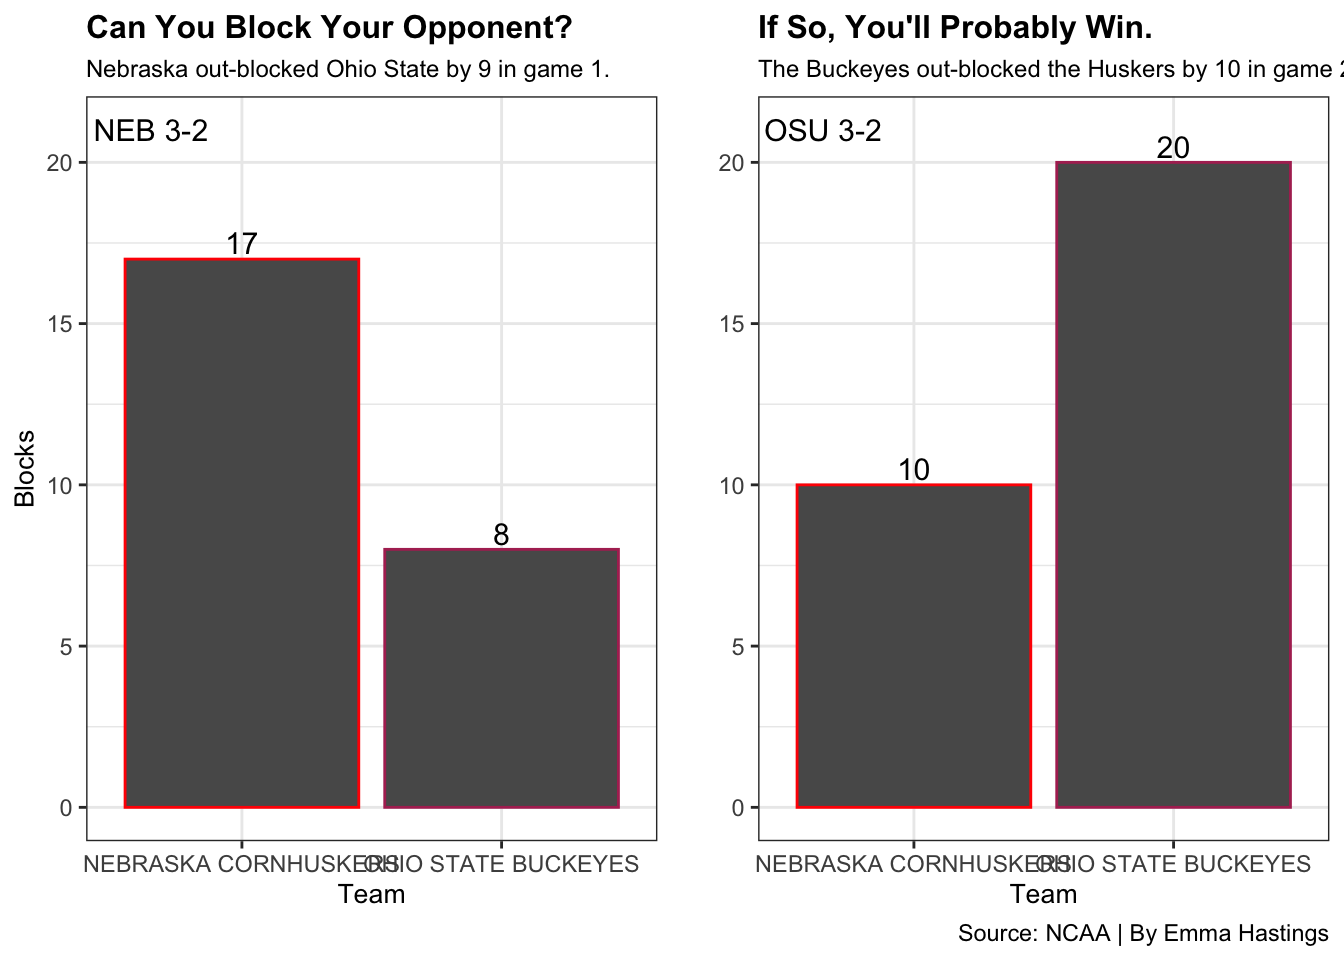
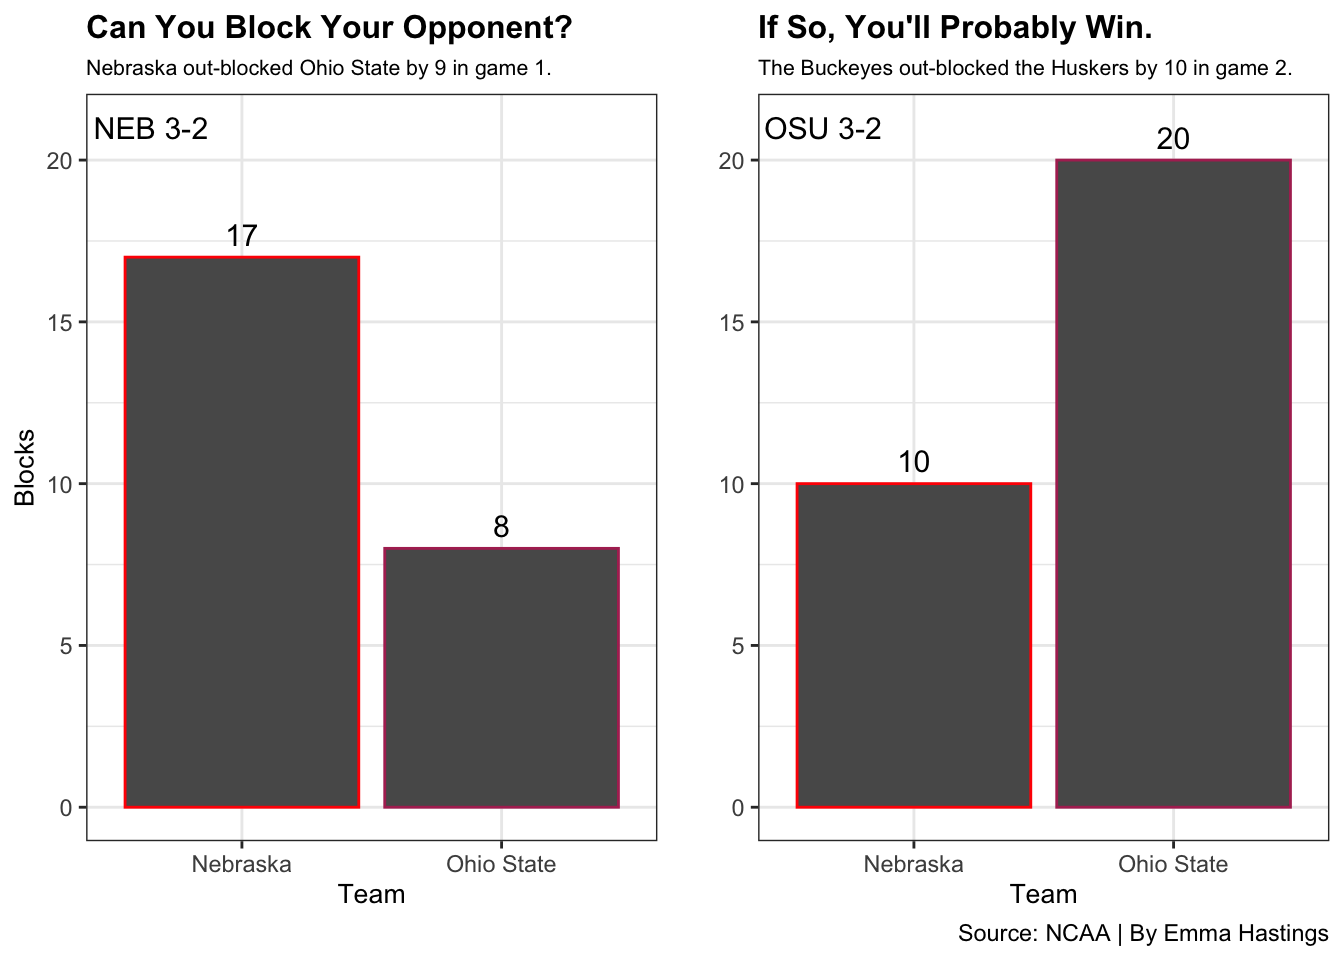
Final commit.

diff --git a/2021/03/26/explaining-the-split-how-nebraska-volleyball-lost-to-a-team-they-beat-24-hours-before/index.html b/2021/03/26/explaining-the-split-how-nebraska-volleyball-lost-to-a-team-they-beat-24-hours-before/index.html
@@ -144,19 +144,19 @@ HPgame2 &lt;- teamgame2 %&gt;%
   geom_point(data=HPgame1, aes(x=4, y=5.7), size=2, color=&quot;maroon&quot;) +
   geom_point(data=HPgame1, aes(x=5, y=41.2), size=4, color=&quot;red&quot;) +
   geom_point(data=HPgame1, aes(x=5, y=19), size=2, color=&quot;maroon&quot;) +
-  annotate(&quot;text&quot;, x=1.35, y=22, label=&quot;NEB, 20.6%&quot;, size=3.5) +
-  annotate(&quot;text&quot;, x=1.35, y=41, label=&quot;OSU, 40.0%&quot;, size=3.5) +
-  annotate(&quot;text&quot;, x=2.23, y=13, label=&quot;12.8%&quot;, size=3.5) +
-  annotate(&quot;text&quot;, x=2.22, y=23.9, label=&quot;22.7%&quot;, size=3.5) +
-  annotate(&quot;text&quot;, x=3.23, y=25.5, label=&quot;25.6%&quot;, size=3.5) +
-  annotate(&quot;text&quot;, x=3.24, y=20.5, label=&quot;20.0%&quot;, size=3.5)  +
-  annotate(&quot;text&quot;, x=4.15, y=33.5, label=&quot;35.3%&quot;, size=3.5) +
-  annotate(&quot;text&quot;, x=4.2, y=5, label=&quot;5.7%&quot;, size=3.5) +
-  annotate(&quot;text&quot;, x=5, y=39, label=&quot;41.2%&quot;, size=3.5) +
-  annotate(&quot;text&quot;, x=5, y=21.5, label=&quot;19.0%&quot;, size=3.5) +
-  annotate(&quot;text&quot;, x=1.1, y=1.5, label= &quot;NEB 3-2&quot;, size=3.5) +
+  annotate(&quot;text&quot;, x=1.18, y=24.5, label=&quot;NEB, 20.6%&quot;, size=2) +
+  annotate(&quot;text&quot;, x=1.18, y=45, label=&quot;OSU, 40.0%&quot;, size=2) +
+  annotate(&quot;text&quot;, x=2.12, y=10, label=&quot;12.8%&quot;, size=2) +
+  annotate(&quot;text&quot;, x=2.12, y=28, label=&quot;22.7%&quot;, size=2) +
+  annotate(&quot;text&quot;, x=3.105, y=32, label=&quot;25.6%&quot;, size=2) +
+  annotate(&quot;text&quot;, x=3.02, y=14.7, label=&quot;20.0%&quot;, size=2)  +
+  annotate(&quot;text&quot;, x=4.15, y=32, label=&quot;35.3%&quot;, size=2) +
+  annotate(&quot;text&quot;, x=4.1, y=3.75, label=&quot;5.7%&quot;, size=2) +
+  annotate(&quot;text&quot;, x=5, y=34.75, label=&quot;41.2%&quot;, size=2) +
+  annotate(&quot;text&quot;, x=5, y=24, label=&quot;19.0%&quot;, size=2) +
+  annotate(&quot;text&quot;, x=1.1, y=3, label= &quot;NEB 3-2&quot;, size=2.5) +
   labs(title=&quot;Hitting percentage predicts the winner of all 10 series sets.&quot;, subtitle = &quot;During the first game, Nebraska won the hitting percentage battle in 3 out of 5 sets.&quot;, x = &quot;Set&quot;, y=&quot;Hitting Percentage (%)&quot;) +
-  scale_y_continuous(limits = c(0, 50)) +
+  scale_y_continuous(limits = c(0, 55)) +
   theme_bw() +
   theme(plot.title = element_text(size = 16, face = &quot;bold&quot;), plot.subtitle = element_text(size = 12), axis.title = element_text(size = 9))</code></pre>
 <p>… and here’s the code for the second.</p>
@@ -173,18 +173,19 @@ HPgame2 &lt;- teamgame2 %&gt;%
   geom_point(data=HPgame2, aes(x=4, y=20), size=4, color=&quot;maroon&quot;) +
   geom_point(data=HPgame2, aes(x=5, y=31.8), size=2, color=&quot;red&quot;) +
   geom_point(data=HPgame2, aes(x=5, y=47.5), size=4, color=&quot;maroon&quot;) +
-  annotate(&quot;text&quot;, x=1.18, y=28.3, label=&quot;NEB, 25.8%&quot;, size=3.5) +
-  annotate(&quot;text&quot;, x=1.35, y=48, label=&quot;OSU, 48.3%&quot;, size=3.5) +
-  annotate(&quot;text&quot;, x=1.95, y=22.9, label=&quot;18.9%&quot;, size=3.5) +
-  annotate(&quot;text&quot;, x=2.23, y=10, label=&quot;10.0%&quot;, size=3.5) +
-  annotate(&quot;text&quot;, x=3.2, y=41.5, label=&quot;39.5%&quot;, size=3.5) +
-  annotate(&quot;text&quot;, x=3.09, y=26, label=&quot;29.4%&quot;, size=3.5)  +
-  annotate(&quot;text&quot;, x=4.225, y=8.5, label=&quot;8.3%&quot;, size=3.5) +
-  annotate(&quot;text&quot;, x=3.95, y=24.1, label=&quot;20.0%&quot;, size=3.5) +
-  annotate(&quot;text&quot;, x=5.1, y=28.5, label=&quot;31.8%&quot;, size=3.5) +
-  annotate(&quot;text&quot;, x=5.1, y=45, label=&quot;47.6%&quot;, size=3.5) +
-  annotate(&quot;text&quot;, x=1.1, y=1.5, label= &quot;OSU 3-2&quot;, size=3.5) +
+  annotate(&quot;text&quot;, x=1.2, y=28.3, label=&quot;NEB, 25.8%&quot;, size=2) +
+  annotate(&quot;text&quot;, x=1.255, y=49, label=&quot;OSU, 48.3%&quot;, size=2) +
+  annotate(&quot;text&quot;, x=1.95, y=25, label=&quot;18.9%&quot;, size=2) +
+  annotate(&quot;text&quot;, x=2.12, y=7, label=&quot;10.0%&quot;, size=2) +
+  annotate(&quot;text&quot;, x=3.13, y=44, label=&quot;39.5%&quot;, size=2) +
+  annotate(&quot;text&quot;, x=3.09, y=24.3, label=&quot;29.4%&quot;, size=2)  +
+  annotate(&quot;text&quot;, x=4.12, y=6, label=&quot;8.3%&quot;, size=2) +
+  annotate(&quot;text&quot;, x=3.95, y=26, label=&quot;20.0%&quot;, size=2) +
+  annotate(&quot;text&quot;, x=5, y=27, label=&quot;31.8%&quot;, size=2) +
+  annotate(&quot;text&quot;, x=5, y=41, label=&quot;47.6%&quot;, size=2) +
+  annotate(&quot;text&quot;, x=1.1, y=3, label= &quot;OSU 3-2&quot;, size=2) +
   labs(subtitle=&quot;The same thing happens in Game 2, except it&#39;s the Buckeyes&#39; turn.&quot;, x=&quot;Set&quot;, y=&quot;Hitting Percentage (%)&quot;, caption=&quot;Source: NCAA | By Emma Hastings&quot;) +
+  scale_y_continuous(limits = c(0, 55)) +
   theme_bw() +
   theme(plot.title = element_text(size = 16, face = &quot;bold&quot;), plot.subtitle = element_text(size = 12), axis.title = element_text(size = 9))</code></pre>
 <p>Finally, I’m going to use “plot_grid()” to put the line charts together. This way, we’ll be able to compare Game 1’s hitting percentages with Game 2’s.</p>
@@ -278,16 +279,16 @@ teamblockg2 &lt;- indivblockg2 %&gt;%
   summarise(TOTALBLOCKS = sum(BLOCKS))</code></pre>
 <p>Next, I’m going to separate each game out into Nebraska and Ohio State so I can compare their blocking totals later.</p>
 <pre class="r"><code>nublocks1 &lt;- teamblockg1 %&gt;% 
-  filter(TEAM == &quot;NEBRASKA CORNHUSKERS&quot;)
+  filter(TEAM == &quot;Nebraska&quot;)
 
 nublocks2 &lt;- teamblockg2 %&gt;% 
-  filter(TEAM == &quot;NEBRASKA CORNHUSKERS&quot;)
+  filter(TEAM == &quot;Nebraska&quot;)
 
 osublocks1 &lt;- teamblockg1 %&gt;% 
-  filter(TEAM == &quot;OHIO STATE BUCKEYES&quot;)
+  filter(TEAM == &quot;Ohio State&quot;)
 
 osublocks2 &lt;- teamblockg2 %&gt;% 
-  filter(TEAM == &quot;OHIO STATE BUCKEYES&quot;)</code></pre>
+  filter(TEAM == &quot;Ohio State&quot;)</code></pre>
 <p>Then, I’m going to create two separate bar charts displaying each team’s blocking totals for each game.</p>
 <p>Here’s the code for the first bar chart…</p>
 <pre class="r"><code>blockg1 &lt;- ggplot() + 
@@ -297,10 +298,10 @@ osublocks2 &lt;- teamblockg2 %&gt;%
   theme_bw() + 
   labs(title = &quot;Can You Block Your Opponent?&quot;, subtitle = &quot;Nebraska out-blocked Ohio State by 9 in game 1.&quot;, y=&quot;Blocks&quot;, x=&quot;Team&quot;, caption = &quot;&quot;) +
   scale_y_continuous(limits = c(0, 21)) +
-  annotate(&quot;text&quot;, x=1, y=17.5, label=&quot;17&quot;, size=4) +
-  annotate(&quot;text&quot;, x=2, y=8.5, label=&quot;8&quot;, size=4) +
+  annotate(&quot;text&quot;, x=1, y=17.7, label=&quot;17&quot;, size=4) +
+  annotate(&quot;text&quot;, x=2, y=8.7, label=&quot;8&quot;, size=4) +
   annotate(&quot;text&quot;, x=0.65, y=21, label=&quot;NEB 3-2&quot;, size=4) +
-  theme(plot.title = element_text(size = 12, face = &quot;bold&quot;), plot.subtitle = element_text(size = 9), axis.title = element_text(size=10))</code></pre>
+  theme(plot.title = element_text(size = 12, face = &quot;bold&quot;), plot.subtitle = element_text(size = 8), axis.title = element_text(size=10))</code></pre>
 <p>… and here’s the code for the second.</p>
 <pre class="r"><code>blockg2 &lt;- ggplot() + 
   geom_bar(data=teamblockg2, aes(x=TEAM, weight=`TOTALBLOCKS`)) +
@@ -308,11 +309,11 @@ osublocks2 &lt;- teamblockg2 %&gt;%
   geom_bar(data=osublocks2, aes(x=TEAM, weight=`TOTALBLOCKS`, group=TEAM), color=&quot;maroon&quot;) +
   theme_bw() + 
   labs(title = &quot;If So, You&#39;ll Probably Win.&quot;, subtitle = &quot;The Buckeyes out-blocked the Huskers by 10 in game 2.&quot;, y=&quot;&quot;, x=&quot;Team&quot;, caption = &quot;Source: NCAA | By Emma Hastings&quot;) +
-  annotate(&quot;text&quot;, x=1, y=10.5, label=&quot;10&quot;, size=4) +
-  annotate(&quot;text&quot;, x=2, y=20.5, label=&quot;20&quot;, size=4) +
+  annotate(&quot;text&quot;, x=1, y=10.7, label=&quot;10&quot;, size=4) +
+  annotate(&quot;text&quot;, x=2, y=20.7, label=&quot;20&quot;, size=4) +
   annotate(&quot;text&quot;, x=0.65, y=21, label=&quot;OSU 3-2&quot;, size=4) +
   scale_y_continuous(limits = c(0, 21)) +
-  theme(plot.title = element_text(size = 12, face = &quot;bold&quot;), plot.subtitle = element_text(size = 9), axis.title = element_text(size=10))</code></pre>
+  theme(plot.title = element_text(size = 12, face = &quot;bold&quot;), plot.subtitle = element_text(size = 8), axis.title = element_text(size=10))</code></pre>
 <p>Finally, I’ll use “plot_grid()” again in order to compare the two games.</p>
 <pre class="r"><code>plot_grid(blockg1, blockg2, ncol=2)</code></pre>
 <p><img src="http://ehastings17.github.io/2021/03/26/explaining-the-split-how-nebraska-volleyball-lost-to-a-team-they-beat-24-hours-before/index_files/figure-html/unnamed-chunk-18-1.png" width="672" /></p>

diff --git a/tags/index.html b/tags/index.html
@@ -69,42 +69,42 @@
     <article class="archive-item">
       <a href="/tags/volleyball/" class="archive-item-link">volleyball</a>
       <span class="archive-item-date">
-        2021-03-27
+        2021-03-26
       </span>
     </article>
     
     <article class="archive-item">
       <a href="/tags/sports/" class="archive-item-link">sports</a>
       <span class="archive-item-date">
-        2021-03-27
+        2021-03-26
       </span>
     </article>
     
     <article class="archive-item">
       <a href="/tags/r/" class="archive-item-link">R</a>
       <span class="archive-item-date">
-        2021-03-27
+        2021-03-26
       </span>
     </article>
     
     <article class="archive-item">
       <a href="/tags/ncaa/" class="archive-item-link">NCAA</a>
       <span class="archive-item-date">
-        2021-03-27
+        2021-03-26
       </span>
     </article>
     
     <article class="archive-item">
       <a href="/tags/data/" class="archive-item-link">data</a>
       <span class="archive-item-date">
-        2021-03-27
+        2021-03-26
       </span>
     </article>
     
     <article class="archive-item">
       <a href="/tags/analysis/" class="archive-item-link">analysis</a>
       <span class="archive-item-date">
-        2021-03-27
+        2021-03-26
       </span>
     </article>
     

diff --git a/categories/class-projects/index.html b/categories/class-projects/index.html
@@ -67,9 +67,9 @@
     <h2 class="archive-title">2021</h2>
     
     <article class="archive-item">
-      <a href="/2021/03/27/explaining-the-split-how-nebraska-volleyball-lost-to-a-team-they-beat-24-hours-before/" class="archive-item-link">Explaining the Split - How Nebraska Volleyball Lost to a Team They Beat 24 Hours Before</a>
+      <a href="/2021/03/26/explaining-the-split-how-nebraska-volleyball-lost-to-a-team-they-beat-24-hours-before/" class="archive-item-link">Explaining the Split - How Nebraska Volleyball Lost to a Team They Beat 24 Hours Before</a>
       <span class="archive-item-date">
-        2021-03-27
+        2021-03-26
       </span>
     </article>
     

diff --git a/categories/sports-data-analysis/index.html b/categories/sports-data-analysis/index.html
@@ -67,9 +67,9 @@
     <h2 class="archive-title">2021</h2>
     
     <article class="archive-item">
-      <a href="/2021/03/27/explaining-the-split-how-nebraska-volleyball-lost-to-a-team-they-beat-24-hours-before/" class="archive-item-link">Explaining the Split - How Nebraska Volleyball Lost to a Team They Beat 24 Hours Before</a>
+      <a href="/2021/03/26/explaining-the-split-how-nebraska-volleyball-lost-to-a-team-they-beat-24-hours-before/" class="archive-item-link">Explaining the Split - How Nebraska Volleyball Lost to a Team They Beat 24 Hours Before</a>
       <span class="archive-item-date">
-        2021-03-27
+        2021-03-26
       </span>
     </article>
     

diff --git a/index.html b/index.html
@@ -70,9 +70,9 @@
     <h2 class="archive-title">2021</h2>
     
     <article class="archive-item">
-      <a href="/2021/03/27/explaining-the-split-how-nebraska-volleyball-lost-to-a-team-they-beat-24-hours-before/" class="archive-item-link">Explaining the Split - How Nebraska Volleyball Lost to a Team They Beat 24 Hours Before</a>
+      <a href="/2021/03/26/explaining-the-split-how-nebraska-volleyball-lost-to-a-team-they-beat-24-hours-before/" class="archive-item-link">Explaining the Split - How Nebraska Volleyball Lost to a Team They Beat 24 Hours Before</a>
       <span class="archive-item-date">
-        2021-03-27
+        2021-03-26
       </span>
     </article>
     

diff --git a/post/index.html b/post/index.html
@@ -67,9 +67,9 @@
     <h2 class="archive-title">2021</h2>
     
     <article class="archive-item">
-      <a href="/2021/03/27/explaining-the-split-how-nebraska-volleyball-lost-to-a-team-they-beat-24-hours-before/" class="archive-item-link">Explaining the Split - How Nebraska Volleyball Lost to a Team They Beat 24 Hours Before</a>
+      <a href="/2021/03/26/explaining-the-split-how-nebraska-volleyball-lost-to-a-team-they-beat-24-hours-before/" class="archive-item-link">Explaining the Split - How Nebraska Volleyball Lost to a Team They Beat 24 Hours Before</a>
       <span class="archive-item-date">
-        2021-03-27
+        2021-03-26
       </span>
     </article>
     

diff --git a/tags/analysis/index.html b/tags/analysis/index.html
@@ -67,9 +67,9 @@
     <h2 class="archive-title">2021</h2>
     
     <article class="archive-item">
-      <a href="/2021/03/27/explaining-the-split-how-nebraska-volleyball-lost-to-a-team-they-beat-24-hours-before/" class="archive-item-link">Explaining the Split - How Nebraska Volleyball Lost to a Team They Beat 24 Hours Before</a>
+      <a href="/2021/03/26/explaining-the-split-how-nebraska-volleyball-lost-to-a-team-they-beat-24-hours-before/" class="archive-item-link">Explaining the Split - How Nebraska Volleyball Lost to a Team They Beat 24 Hours Before</a>
       <span class="archive-item-date">
-        2021-03-27
+        2021-03-26
       </span>
     </article>
     

diff --git a/tags/data/index.html b/tags/data/index.html
@@ -67,9 +67,9 @@
     <h2 class="archive-title">2021</h2>
     
     <article class="archive-item">
-      <a href="/2021/03/27/explaining-the-split-how-nebraska-volleyball-lost-to-a-team-they-beat-24-hours-before/" class="archive-item-link">Explaining the Split - How Nebraska Volleyball Lost to a Team They Beat 24 Hours Before</a>
+      <a href="/2021/03/26/explaining-the-split-how-nebraska-volleyball-lost-to-a-team-they-beat-24-hours-before/" class="archive-item-link">Explaining the Split - How Nebraska Volleyball Lost to a Team They Beat 24 Hours Before</a>
       <span class="archive-item-date">
-        2021-03-27
+        2021-03-26
       </span>
     </article>
     

diff --git a/tags/ncaa/index.html b/tags/ncaa/index.html
@@ -67,9 +67,9 @@
     <h2 class="archive-title">2021</h2>
     
     <article class="archive-item">
-      <a href="/2021/03/27/explaining-the-split-how-nebraska-volleyball-lost-to-a-team-they-beat-24-hours-before/" class="archive-item-link">Explaining the Split - How Nebraska Volleyball Lost to a Team They Beat 24 Hours Before</a>
+      <a href="/2021/03/26/explaining-the-split-how-nebraska-volleyball-lost-to-a-team-they-beat-24-hours-before/" class="archive-item-link">Explaining the Split - How Nebraska Volleyball Lost to a Team They Beat 24 Hours Before</a>
       <span class="archive-item-date">
-        2021-03-27
+        2021-03-26
       </span>
     </article>
     

diff --git a/tags/r/index.html b/tags/r/index.html
@@ -67,9 +67,9 @@
     <h2 class="archive-title">2021</h2>
     
     <article class="archive-item">
-      <a href="/2021/03/27/explaining-the-split-how-nebraska-volleyball-lost-to-a-team-they-beat-24-hours-before/" class="archive-item-link">Explaining the Split - How Nebraska Volleyball Lost to a Team They Beat 24 Hours Before</a>
+      <a href="/2021/03/26/explaining-the-split-how-nebraska-volleyball-lost-to-a-team-they-beat-24-hours-before/" class="archive-item-link">Explaining the Split - How Nebraska Volleyball Lost to a Team They Beat 24 Hours Before</a>
       <span class="archive-item-date">
-        2021-03-27
+        2021-03-26
       </span>
     </article>
     

diff --git a/tags/sports/index.html b/tags/sports/index.html
@@ -67,9 +67,9 @@
     <h2 class="archive-title">2021</h2>
     
     <article class="archive-item">
-      <a href="/2021/03/27/explaining-the-split-how-nebraska-volleyball-lost-to-a-team-they-beat-24-hours-before/" class="archive-item-link">Explaining the Split - How Nebraska Volleyball Lost to a Team They Beat 24 Hours Before</a>
+      <a href="/2021/03/26/explaining-the-split-how-nebraska-volleyball-lost-to-a-team-they-beat-24-hours-before/" class="archive-item-link">Explaining the Split - How Nebraska Volleyball Lost to a Team They Beat 24 Hours Before</a>
       <span class="archive-item-date">
-        2021-03-27
+        2021-03-26
       </span>
     </article>
     

diff --git a/tags/volleyball/index.html b/tags/volleyball/index.html
@@ -67,9 +67,9 @@
     <h2 class="archive-title">2021</h2>
     
     <article class="archive-item">
-      <a href="/2021/03/27/explaining-the-split-how-nebraska-volleyball-lost-to-a-team-they-beat-24-hours-before/" class="archive-item-link">Explaining the Split - How Nebraska Volleyball Lost to a Team They Beat 24 Hours Before</a>
+      <a href="/2021/03/26/explaining-the-split-how-nebraska-volleyball-lost-to-a-team-they-beat-24-hours-before/" class="archive-item-link">Explaining the Split - How Nebraska Volleyball Lost to a Team They Beat 24 Hours Before</a>
       <span class="archive-item-date">
-        2021-03-27
+        2021-03-26
       </span>
     </article>
     
